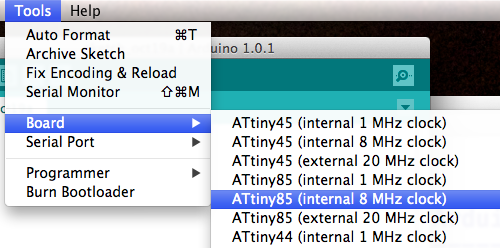
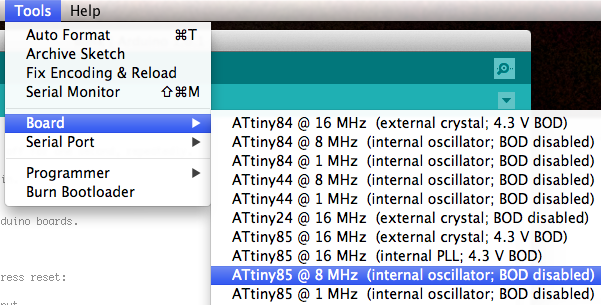
Updated ATtiny programming tutorial.

diff --git a/Arduino/ATtiny/ATtiny.md b/Arduino/ATtiny/ATtiny.md
@@ -20,6 +20,11 @@ To connect this little chip to your computer and program it, you'll need the fol
 * breadboard (a small one will work fine)
 * 6 jumper wires
 
+And for a basic "blink" circuit to test out this setup, you'll also need:
+
+* LED (spec this more) 
+* Resistor (spec this more)
+
 Software Setup
 --------------
 
@@ -31,27 +36,57 @@ Next, we'll need to update the Arduino app with ATTiny "core" files.
 
 1. Find your Arduino folder (on a Mac, it's in the Documents folder)
 2. Create a folder called "hardware" in the Arduino folder
-3. Download [this zip file containing the ATTiny core files](https://github.com/damellis/attiny/zipball/Arduino1).
-4. Unzip the contents (this should be a folder named "attiny") into the "hardware" folder you just created.
+3. Download [this zip file containing the ATTiny core files](http://arduino-tiny.googlecode.com/files/arduino-tiny-0100-0015.zip).
+4. Unzip the contents (this should be a folder named "tiny" and a folder named "tools") into the "hardware" folder you just created.
 5. Restart the Arduino app.
 
 In the Tools > Board menu, you should see a number of new entries:
 ![Tools>Board](assets/images/Board.png)
 
-Select the ATtiny85 (internal 8 MHz clock) board. That's it for the software side -- on to the hardware!
+Select the ATtiny85 @ 8 MHz board. That's it for the software side -- on to the hardware!
 
 Hardware Setup
 --------------
 First, make sure to unplug your Arduino. It's safest to hook this stuff up with the power off.
-____________
-(more here, fritzing diagram)
-________________________
-Here's the final assembly:
+
+Next, connect the capacitor to the Arduino. Connect the capacitor's negative lead (the one on the side with the stripe) to Gnd on the Arduino, and the positive lead to RESET. 
+
+This capacitor is important -- it prevents the Arduino itself from being re-programmed when you program the ATtiny. If you ever need to re-program the Arduino, and not the ATtiny, you must remove this capacitor first. 
+
+Now, connect your ATtiny to the Arduino and LED as shown here:
+
+![Fritzing Diagram](assets/images/ArduinoProgrammer.png)
+
+Note on the LED - the right side of the LED in this diagram is the anode (the longer pin). Also, make sure that the ATtiny85 is oriented corectly -- there's a little circle in one corner on top of the chip, so make sure that this matches the diagram.
+
+Here's a photo of the final assembly:
 
 ![Final assembly](assets/images/together.jpg)
 
+That's it! You should be ready to program the ATtiny.
+______________
 
 
+
+ATtiny Blink
+------------
+For a first "hello world" program to make sure everything's working, we'll adapt the "Blink" sketch that's in the Arduino's Examples collection so that it'll run on an ATtiny85. 
+
+Open up the "Blink" sketch.
+
+There's one thing we'll need to change in this sketch before it'll work on the ATtiny. The Arduino has lots of input and output pins, and "Blink" is written to use output pin 13. But the ATtiny85 doesn't have a pin 13 -- it only has 6 I/O pins, numbered 0 through 5. Here's a map of the ATtiny85's pins:
+
+![ATtiny85 pins](assets/images/ATtiny85.svg)
+
+So, let's change the "led" variable at the top of the sketch from 13 to 3.
+
+before:
+
+`int led = 13;`
+
+after:
+
+`int led = 3;`
 	
 
 
